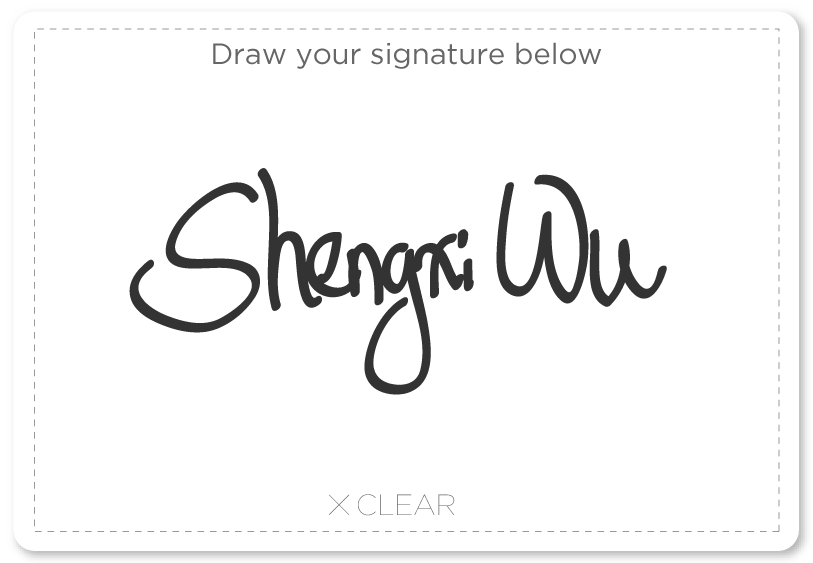
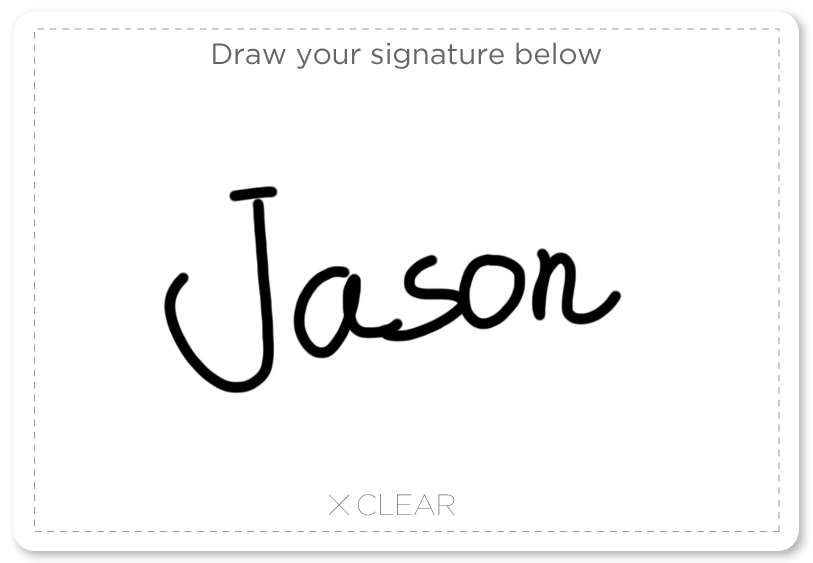
2020 and starbuck
remove signature and update year

Changed region(s): [[0.1538, 0.302, 0.8303, 0.7247]]

diff --git a/shengxi_wu.html b/shengxi_wu.html
@@ -675,7 +675,7 @@
       <div id="u107" class="ax_default paragraph" data-label="bottom text">
         <div id="u107_div" class=""></div>
         <div id="u107_text" class="text ">
-          <p><span>2019 Shengxi Wu All rights reserved</span></p>
+          <p><span>2020 Shengxi Wu All rights reserved</span></p>
         </div>
       </div>
 
